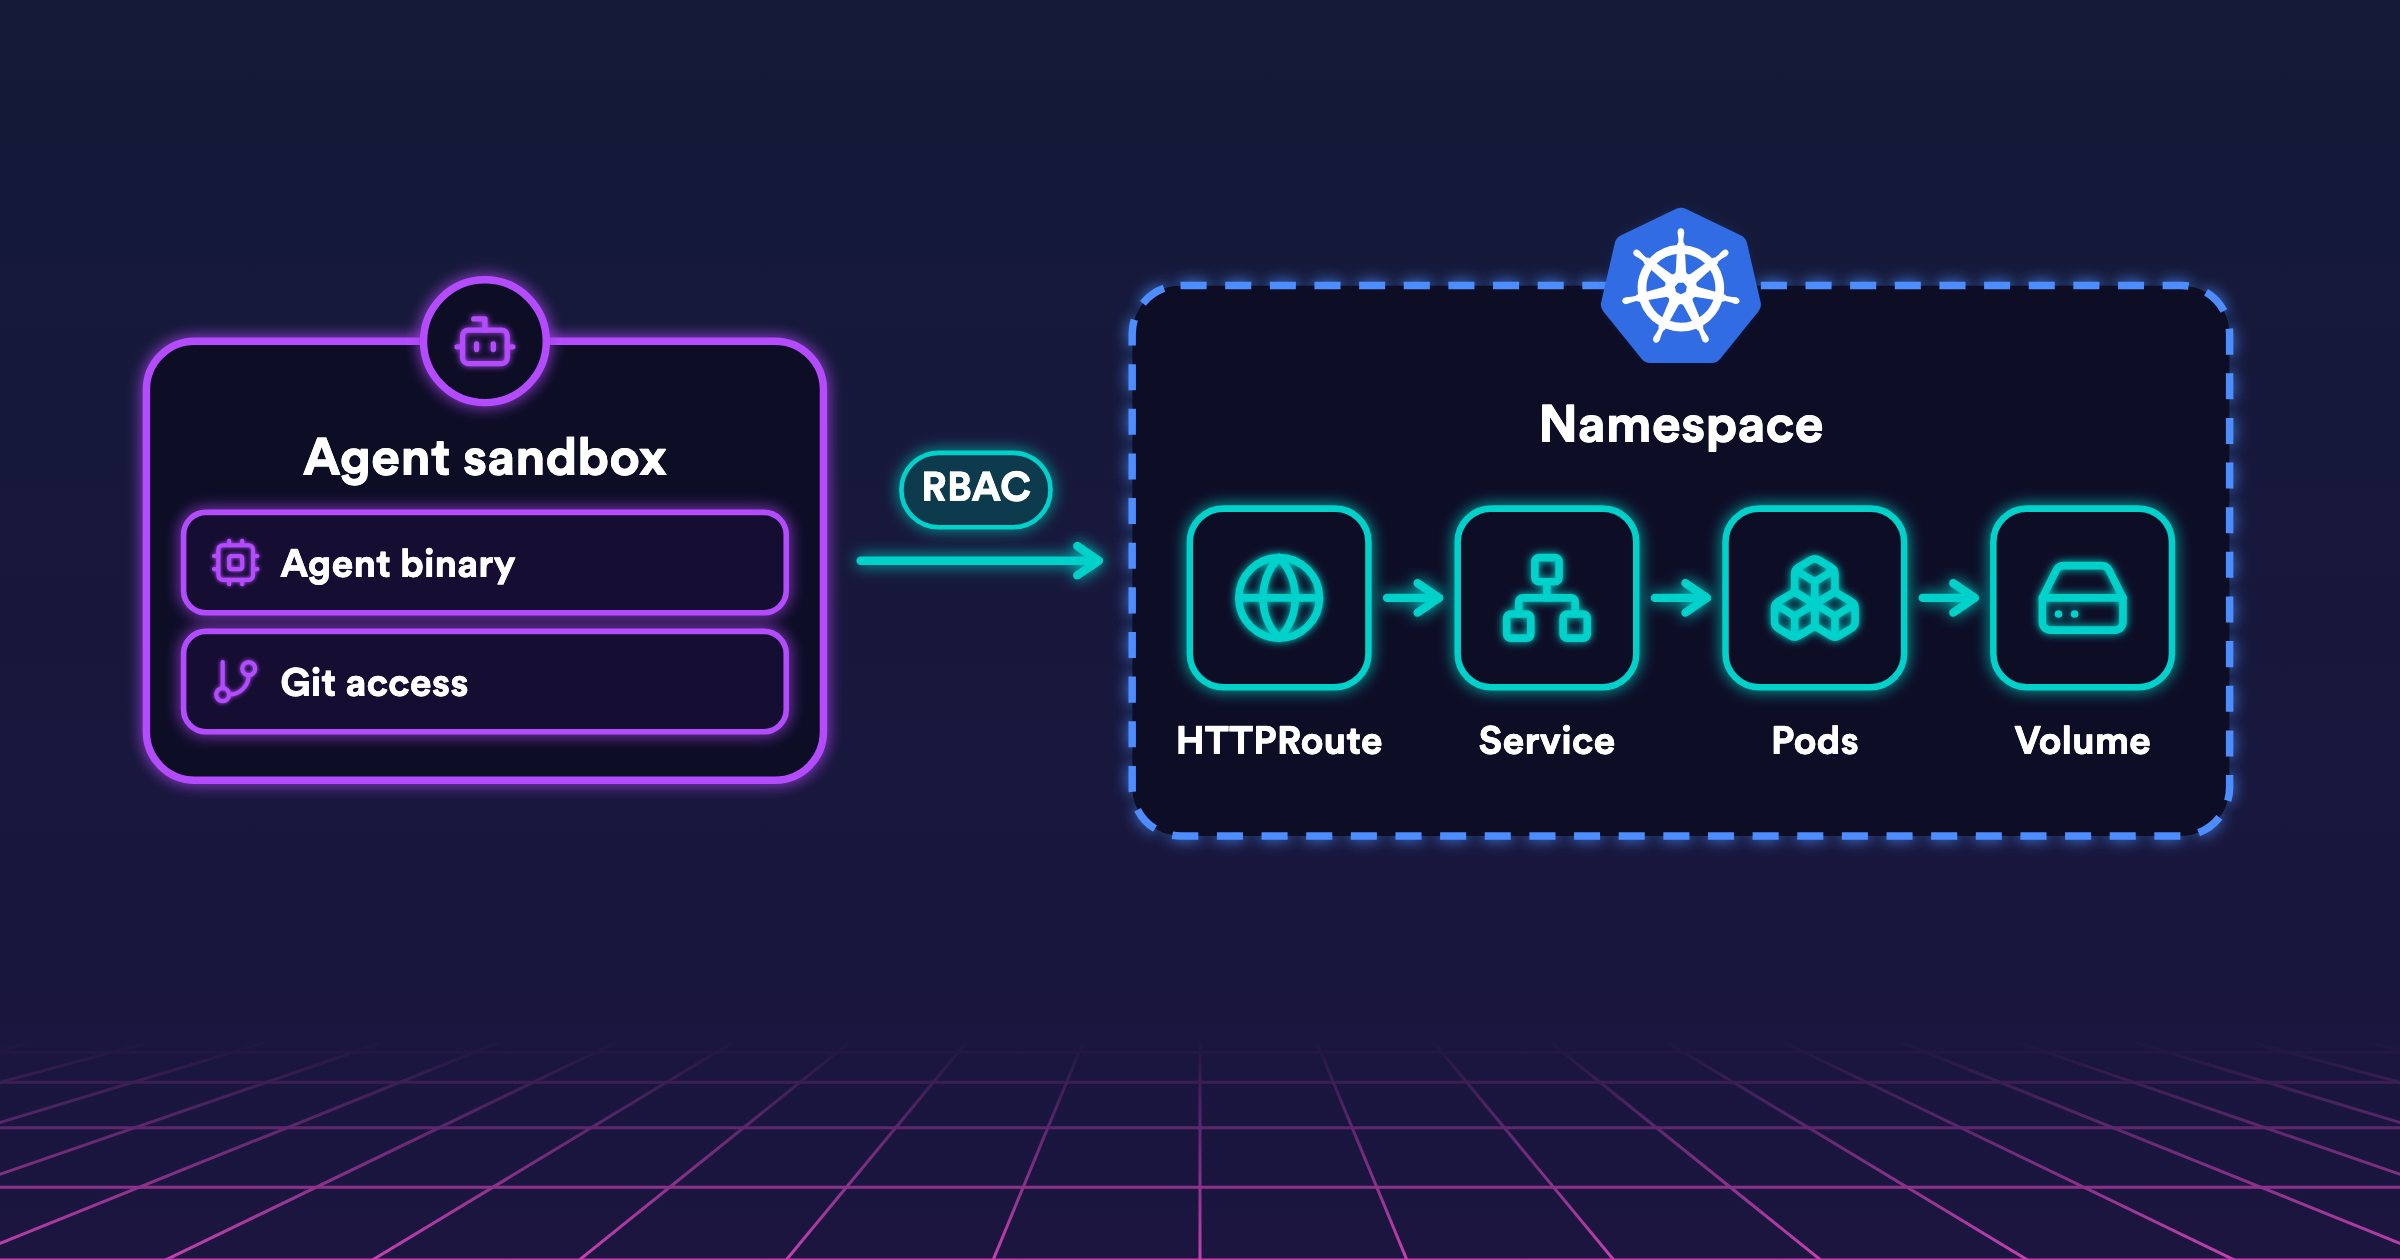
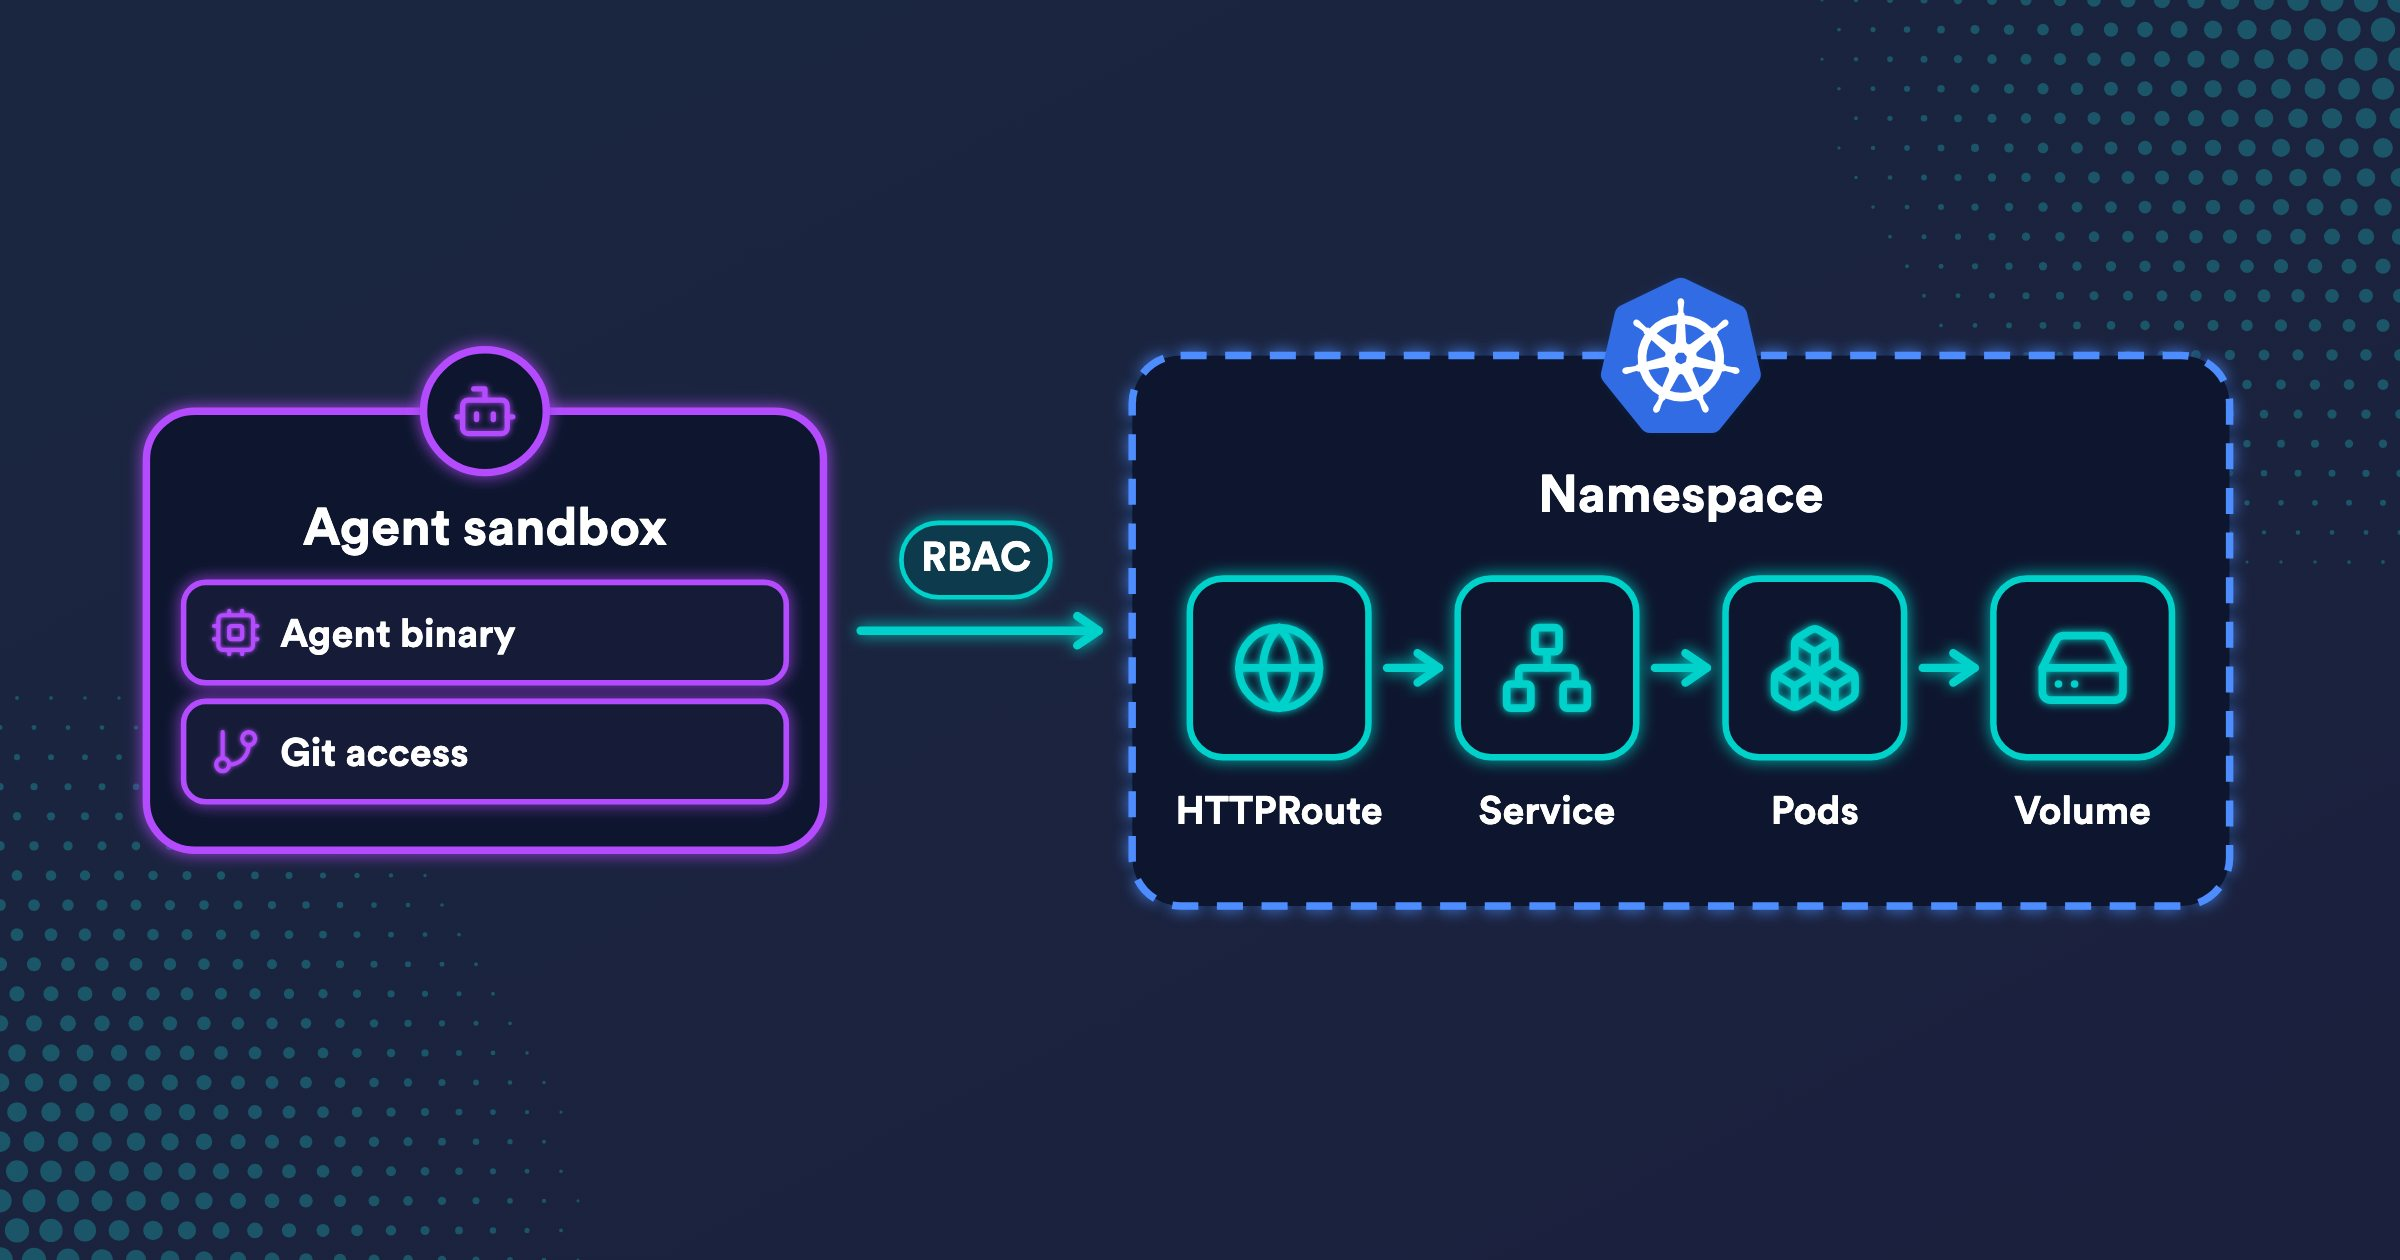
Cover background: the blog's navy with halftone corners
Replaces the night-blue background and the pink grid with the background of
the older blog covers, and takes the fills of the boxes from the same navy.

Changed region(s): [[0.0, 0.0, 1.0, 1.0]]

diff --git a/AGENTS.md b/AGENTS.md
@@ -70,7 +70,7 @@ File extension is `.mdx` for content pages. Frontmatter requires a `description`
 Every blog post has a cover image. The covers of the new posts share one style, defined in `scripts/covers/style.mjs` (older posts keep the cover they had until it is redrawn):
 
 - **Subject:** what the article is about, never its title (the title is already next to the image). Draw a schematic of the idea (a flow, a box with its parts, a comparison), or big logos when the article is about an integration (`Okteto + Argo`, `Helm to Kubernetes`).
-- **Look:** neon lines on a night-blue background, with a faint 80s grid along the bottom edge. Nothing else goes in the background: no sun, stars, or patterns behind the subject.
+- **Look:** neon lines on the navy background of the older blog covers (`#1a2640`), with halftone dots fading from two corners (bottom left and top right). Nothing goes behind the subject: no grid, sun, stars, or patterns.
 - **Simplicity:** one idea, a handful of shapes, and few labels of one to three words, in Circular Bold. The image has to read at the width of a card (about 300px).
 - **Colors:** teal (`#00d1ca`) for Okteto and for environments, blue (`#4d8dff`) for Kubernetes boxes, purple (`#b44cff`) for agents, and amber (`#ffb13b`) or red (`#ff5c7a`) for warnings, cost, and blocked paths.
 
@@ -80,7 +80,7 @@ When you draw the subject:
 - Draw only what the article covers. Don't add related concepts to fill the image.
 - Don't wrap elements in extra boxes or layers. A control over a connection, such as RBAC, is a label on the arrow, not a box around one of its ends.
 - An application looks like a real one: its Kubernetes resources by name (HTTPRoute, Service, Pods, Volume) in a short chain, not generic shapes.
-- Leave a margin of about 80px on each side: the blog cards crop the sides of the image.
+- Leave a margin of about 80px on each side: the blog cards crop the sides of the image. Keep labels away from the two dotted corners.
 - Draw one or two covers first and iterate on them with the user before applying a change of style to many.
 
 ### Logos and icons
